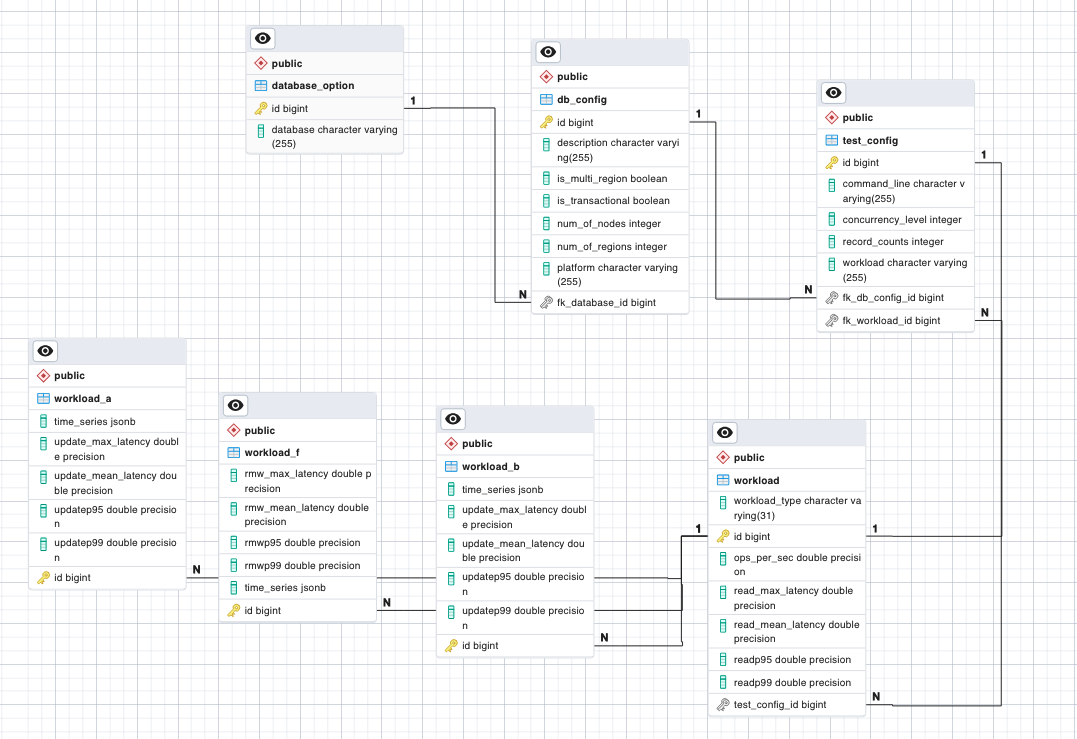
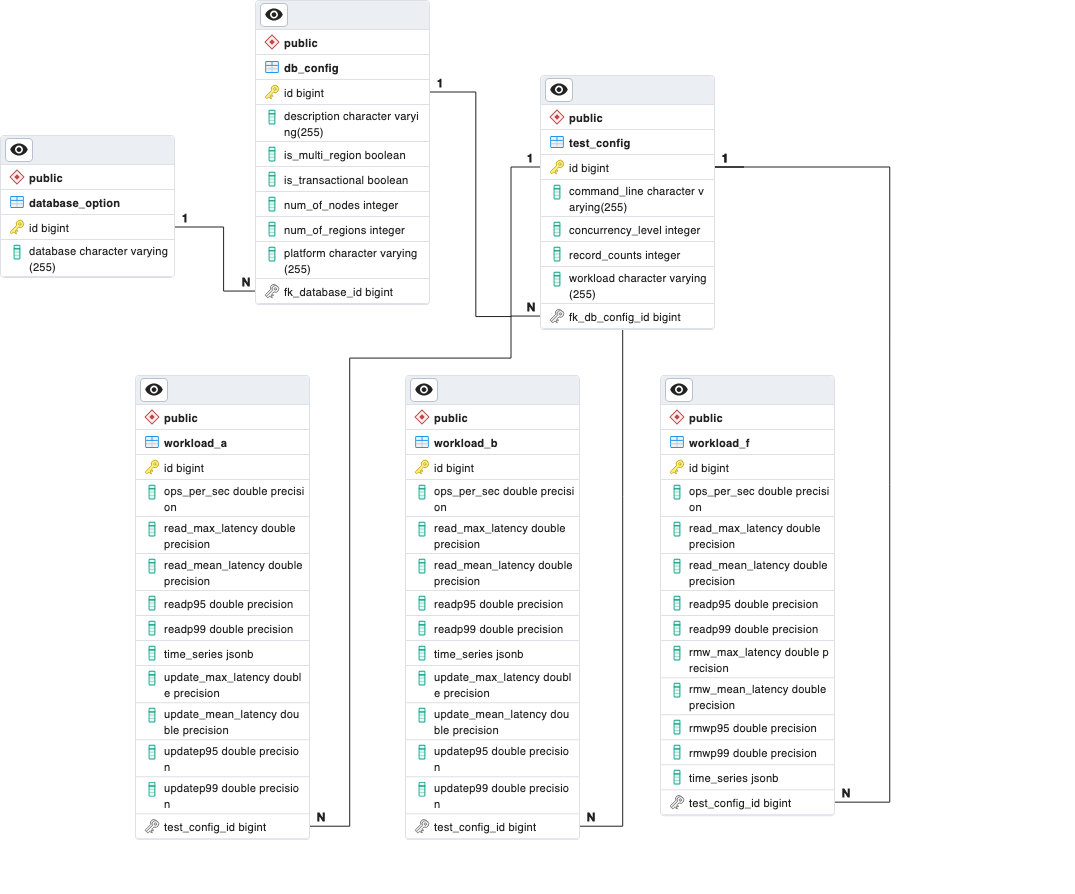
Delete workload table to simplify structure

diff --git a/src/main/java/com/test/datamanagement/controller/WorkloadAController.java b/src/main/java/com/test/datamanagement/controller/WorkloadAController.java
@@ -1,0 +1,47 @@
+package com.test.datamanagement.controller;
+
+import com.test.datamanagement.entity.WorkloadA;
+import com.test.datamanagement.service.WorkloadAService;
+import java.util.List;
+import java.util.Optional;
+import org.springframework.web.bind.annotation.DeleteMapping;
+import org.springframework.web.bind.annotation.GetMapping;
+import org.springframework.web.bind.annotation.PathVariable;
+import org.springframework.web.bind.annotation.PostMapping;
+import org.springframework.web.bind.annotation.PutMapping;
+import org.springframework.web.bind.annotation.RequestBody;
+import org.springframework.web.bind.annotation.RequestMapping;
+import org.springframework.web.bind.annotation.RestController;
+
+@RestController
+@RequestMapping("/api/workloadA")
+public class WorkloadAController {
+  private final WorkloadAService workloadAService;
+
+  public WorkloadAController(WorkloadAService workloadAService) {
+    this.workloadAService = workloadAService;
+  }
+
+  @GetMapping("")
+  public List<WorkloadA> findAllEntity() {
+    return workloadAService.findAllEntity();
+  }
+
+  @GetMapping("/{id}")
+  public Optional<WorkloadA> findEntityById(@PathVariable("id") Long id) {
+    return workloadAService.findById(id);
+  }
+  @PostMapping
+  public WorkloadA saveEntity(@RequestBody WorkloadA workloadA) {
+
+    return workloadAService.saveEntity(workloadA);
+  }
+  @PutMapping
+  public WorkloadA updateEntity(@RequestBody WorkloadA workloadA) {
+    return workloadAService.updateEntity(workloadA);
+  }
+  @DeleteMapping("/{id}")
+  public void deleteEntity(@PathVariable("id") Long id) {
+    workloadAService.deleteEntity(id);
+  }
+}

diff --git a/src/main/java/com/test/datamanagement/entity/WorkloadA.java b/src/main/java/com/test/datamanagement/entity/WorkloadA.java
@@ -1,8 +1,12 @@
 package com.test.datamanagement.entity;
 
 import jakarta.persistence.Column;
-import jakarta.persistence.DiscriminatorValue;
 import jakarta.persistence.Entity;
+import jakarta.persistence.GeneratedValue;
+import jakarta.persistence.GenerationType;
+import jakarta.persistence.Id;
+import jakarta.persistence.JoinColumn;
+import jakarta.persistence.OneToOne;
 import jakarta.persistence.Table;
 import lombok.Getter;
 import lombok.NoArgsConstructor;
@@ -10,9 +14,16 @@ import lombok.Setter;
 
 @Entity
 @Getter @Setter @NoArgsConstructor
-@DiscriminatorValue("A")
 @Table(name="workload_A")
-public class WorkloadA extends Workload {
+public class WorkloadA {
+  @Id
+  @GeneratedValue(strategy = GenerationType.IDENTITY)
+  private Long id;
+  private double opsPerSec;
+  private double readMeanLatency;
+  private double readMaxLatency;
+  private double readP95;
+  private double readP99;
   private double updateMeanLatency;
   private double updateMaxLatency;
   private double updateP95;
@@ -20,4 +31,8 @@ public class WorkloadA extends Workload {
   // A column that uses Json or other dt to store Time series
   @Column(columnDefinition = "jsonb")
   private String timeSeries;
+
+  @OneToOne
+  @JoinColumn(name = "test_config_id")
+  private TestConfig testConfigA;
 }

diff --git a/src/main/java/com/test/datamanagement/entity/WorkloadB.java b/src/main/java/com/test/datamanagement/entity/WorkloadB.java
@@ -3,6 +3,11 @@ package com.test.datamanagement.entity;
 import jakarta.persistence.Column;
 import jakarta.persistence.DiscriminatorValue;
 import jakarta.persistence.Entity;
+import jakarta.persistence.GeneratedValue;
+import jakarta.persistence.GenerationType;
+import jakarta.persistence.Id;
+import jakarta.persistence.JoinColumn;
+import jakarta.persistence.OneToOne;
 import jakarta.persistence.Table;
 import lombok.Getter;
 import lombok.NoArgsConstructor;
@@ -10,9 +15,16 @@ import lombok.Setter;
 
 @Entity
 @Getter @Setter @NoArgsConstructor
-@DiscriminatorValue("B")
 @Table(name="workload_B")
-public class WorkloadB extends Workload{
+public class WorkloadB{
+  @Id
+  @GeneratedValue(strategy = GenerationType.IDENTITY)
+  private Long id;
+  private double opsPerSec;
+  private double readMeanLatency;
+  private double readMaxLatency;
+  private double readP95;
+  private double readP99;
   private double updateMeanLatency;
   private double updateMaxLatency;
   private double updateP95;
@@ -21,4 +33,7 @@ public class WorkloadB extends Workload{
   @Column(columnDefinition = "jsonb")
   private String timeSeries;
 
+  @OneToOne
+  @JoinColumn(name = "test_config_id")
+  private TestConfig testConfigB;
 }

diff --git a/src/main/java/com/test/datamanagement/entity/WorkloadF.java b/src/main/java/com/test/datamanagement/entity/WorkloadF.java
@@ -3,6 +3,11 @@ package com.test.datamanagement.entity;
 import jakarta.persistence.Column;
 import jakarta.persistence.DiscriminatorValue;
 import jakarta.persistence.Entity;
+import jakarta.persistence.GeneratedValue;
+import jakarta.persistence.GenerationType;
+import jakarta.persistence.Id;
+import jakarta.persistence.JoinColumn;
+import jakarta.persistence.OneToOne;
 import jakarta.persistence.Table;
 import lombok.Getter;
 import lombok.NoArgsConstructor;
@@ -12,7 +17,15 @@ import lombok.Setter;
 @Getter @Setter @NoArgsConstructor
 @DiscriminatorValue("F")
 @Table(name="workload_F")
-public class WorkloadF extends Workload {
+public class WorkloadF{
+  @Id
+  @GeneratedValue(strategy = GenerationType.IDENTITY)
+  private Long id;
+  private double opsPerSec;
+  private double readMeanLatency;
+  private double readMaxLatency;
+  private double readP95;
+  private double readP99;
   private double rmwMeanLatency;
   private double rmwMaxLatency;
   private double rmwP95;
@@ -21,4 +34,7 @@ public class WorkloadF extends Workload {
   @Column(columnDefinition = "jsonb")
   private String timeSeries;
 
+  @OneToOne
+  @JoinColumn(name = "test_config_id")
+  private TestConfig testConfigF;
 }

diff --git a/src/main/java/com/test/datamanagement/service/impl/WorkloadAServiceImpl.java b/src/main/java/com/test/datamanagement/service/impl/WorkloadAServiceImpl.java
@@ -1,0 +1,38 @@
+package com.test.datamanagement.service.impl;
+import com.test.datamanagement.entity.WorkloadA;
+import com.test.datamanagement.repository.WorkloadARepository;
+import com.test.datamanagement.service.WorkloadAService;
+import java.util.List;
+import java.util.Optional;
+import org.springframework.stereotype.Service;
+
+@Service
+public class WorkloadAServiceImpl implements WorkloadAService {
+
+  private final WorkloadARepository workloadARepository;
+
+  public WorkloadAServiceImpl(WorkloadARepository workloadARepository) {
+    this.workloadARepository = workloadARepository;
+  }
+  @Override
+  public List<WorkloadA> findAllEntity() {
+    return workloadARepository.findAll();
+  }
+  @Override
+  public Optional<WorkloadA> findById(Long id) {
+    return workloadARepository.findById(id);
+  }
+  @Override
+  public WorkloadA saveEntity(WorkloadA workloadA) {
+    return workloadARepository.save(workloadA);
+  }
+  @Override
+  public WorkloadA updateEntity(WorkloadA workloadA) {
+    return workloadARepository.save(workloadA);
+  }
+  @Override
+  public void deleteEntity(Long id) {
+    workloadARepository.deleteById(id);
+  }
+
+}

diff --git a/src/main/java/com/test/datamanagement/entity/TestConfig.java b/src/main/java/com/test/datamanagement/entity/TestConfig.java
@@ -32,10 +32,12 @@ public class TestConfig {
   @JoinColumn(name = "fk_db_config_id") // This is the foreign key column in the test_config table
   private DBConfig dbConfig;
 
-  @OneToOne(cascade = CascadeType.ALL)
-  @JoinColumn(name = "fk_workload_id", referencedColumnName = "id") // This column will store the reference to the workload entity
-  private Workload workloadEntity; // This field represents the relationship with the workload entity
+  @OneToOne(mappedBy = "testConfigA", cascade = CascadeType.ALL)
+  private WorkloadA workloadA;
 
-  // TODO:
-  //  restrict that one TestConfig can only have up to three specific Workload entities (A, B, F)
+  @OneToOne(mappedBy = "testConfigB", cascade = CascadeType.ALL)
+  private WorkloadB workloadB;
+
+  @OneToOne(mappedBy = "testConfigF", cascade = CascadeType.ALL)
+  private WorkloadF workloadF;
 }

diff --git a/src/main/java/com/test/datamanagement/repository/WorkloadARepository.java b/src/main/java/com/test/datamanagement/repository/WorkloadARepository.java
@@ -1,10 +1,9 @@
 package com.test.datamanagement.repository;
 
-import com.test.datamanagement.entity.DatabaseOption;
+import com.test.datamanagement.entity.WorkloadA;
 import org.springframework.data.jpa.repository.JpaRepository;
 import org.springframework.stereotype.Repository;
 
 @Repository
-public interface DatabaseOptionRepository extends JpaRepository<DatabaseOption, Long> {
-
+public interface WorkloadARepository extends JpaRepository<WorkloadA, Long> {
 }

diff --git a/src/main/java/com/test/datamanagement/entity/DatabaseOption.java b/src/main/java/com/test/datamanagement/entity/DatabaseOption.java
@@ -1,13 +1,11 @@
 package com.test.datamanagement.entity;
 
-
 import jakarta.persistence.CascadeType;
 import jakarta.persistence.Entity;
 import jakarta.persistence.FetchType;
 import jakarta.persistence.GeneratedValue;
 import jakarta.persistence.GenerationType;
 import jakarta.persistence.Id;
-import jakarta.persistence.JoinColumn;
 import jakarta.persistence.OneToMany;
 import jakarta.persistence.Table;
 import java.util.List;

diff --git a/src/main/java/com/test/datamanagement/service/WorkloadAService.java b/src/main/java/com/test/datamanagement/service/WorkloadAService.java
@@ -1,0 +1,13 @@
+package com.test.datamanagement.service;
+
+import com.test.datamanagement.entity.WorkloadA;
+import java.util.List;
+import java.util.Optional;
+
+public interface WorkloadAService {
+  List<WorkloadA> findAllEntity();
+  Optional<WorkloadA> findById(Long id);
+  WorkloadA saveEntity(WorkloadA workloadA);
+  WorkloadA updateEntity(WorkloadA workloadA);
+  void deleteEntity(Long id);
+}
